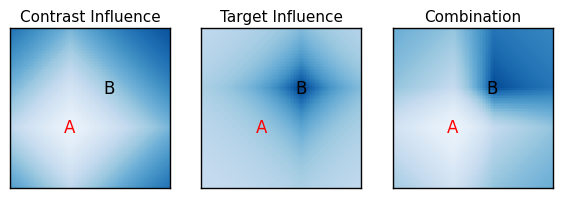
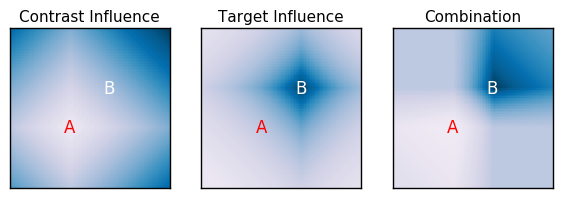
days work

diff --git a/Experiments/middle-bottom/modeling/plot.range.x.location.py b/Experiments/middle-bottom/modeling/plot.range.x.location.py
@@ -13,13 +13,12 @@ import utils
 con = sqlite3.connect('../data/experiment.db')
 info = pd.read_sql_query("SELECT * from participants", con)
 stats = pd.read_sql_query("SELECT * from betastats", con)
-generation = pd.read_sql_query("SELECT participant, stimulus from generation", con)
+observed = pd.read_sql_query("SELECT participant, stimulus from generation", con)
 alphas = pd.read_sql_query("SELECT * from alphas", con)
 stimuli = pd.read_sql_query("SELECT * from stimuli", con).as_matrix()
 con.close()
 
 # get observed data
-observed = pd.DataFrame(generation)
 observed['F1'] = stimuli[observed.stimulus,0]
 observed['F2'] = stimuli[observed.stimulus,1]
 observed = pd.merge(observed, stats[['participant', 'drange']],    on='participant')
@@ -35,8 +34,8 @@ params = dict(
 
 simulated = pd.DataFrame(dict(
 	participant = observed['participant'],
-	stimulus = None,
-	drange = None),
+	stimulus = -1,
+	drange = np.nan),
 	index = observed.index
 )
 
@@ -48,6 +47,7 @@ for i, row in stats.groupby('participant'):
 	rs = np.array(row[['xrange','yrange']])[0]
 	rs = 1.0 / (rs + 1.0/9.0)
 	params['wts'] = rs / float(np.sum(rs))
+	# params['wts'] = np.array([0.5, 0.5])
 
 	model = Packer([As], params)
 	nums = model.simulate_generation(stimuli, 1, nexemplars = 4)
@@ -61,19 +61,6 @@ for i, row in stats.groupby('participant'):
 simulated['F1'] = stimuli[simulated.stimulus,0]
 simulated['F2'] = stimuli[simulated.stimulus,1]
 
-def d2color(vec):
-	d = np.array(vec)
-	static = np.zeros(len(d))
-	return np.array([d, d, static]).T
-
-def plotbs(h, Bs, color):
-	pts = utils.jitterize(Bs, sd = 0.05)
-	for i, row in enumerate(pts):
-		h.plot(row[0], row[1], 'o', 
-			color = color[i,:], 
-			alpha = 0.4, 
-			markersize = 7,
-			markeredgecolor = 'none')
 
 # plot betas
 f, ax = plt.subplots(2,2,figsize = (5,5))
@@ -84,14 +71,17 @@ for colnum, c in enumerate(pd.unique(info.condition)):
 	obs = observed.loc[observed.participant.isin(pids)]
 	sim = simulated.loc[simulated.participant.isin(pids)]
 
-	dfs = [observed, simulated]
-	for j in range(2):
-		df = dfs[j].loc[dfs[j].participant.isin(pids)]
-		Bs = df[['F1','F2']].as_matrix()
-		colors = d2color(df.drange)
+	for j, data in enumerate([observed, simulated]):
+		df = data.loc[data.participant.isin(pids)]
 		h = ax[j][colnum]
-		plotbs(h, Bs, colors)
 
+		df.plot(x = 'F1', y = 'F2', kind = 'scatter', ax = h, 
+			c = 'drange', s = 235, alpha = 0.2, marker = 's',
+			edgecolors = 'gray', linewidth = 0.5, 
+			colorbar = False, cmap = 'PuOr')
+
+		h.set_xlabel('')
+		h.set_ylabel('')
 
 
 # plot alphas

diff --git a/Experiments/middle-bottom/modeling/positive-negative-spaces.py b/Experiments/middle-bottom/modeling/positive-negative-spaces.py
@@ -5,41 +5,40 @@ from itertools import product
 import sys
 sys.path.insert(0, "../../../Modules/") # generate-categories/Modules
 import utils
+from models import Packer
 
 vals = np.linspace(-1, 1, 100).tolist()
 space = np.fliplr(utils.cartesian([vals, vals]))
 
 A = np.array([[-0.25, -0.25]])
 B = np.array([[ 0.25,  0.25]])
+cats = [A,B]
 
-def getss(examples, space, direction, c = 2.0):
-    D = utils.pdist(space, examples)
-    S = np.exp(-1.0 * float(c) * D)
-    S *= direction
-    return np.sum(S, axis=1)
+# params for PACKER
+c, phi = 1.0, 3.0
 
-neg = getss(A, space, -1.0) * 1.0
-pos = getss(B, space, 1.0) * 0.5
-
+pos =     [c, 0.0, 1.0, phi]
+neg =     [c, 1.0, 0.0, phi]
+pos_neg = [c, 1.0, 1.0, phi]
 
 prob_spaces = {
-    'Target Influence': pos,
-    'Contrast Influence': neg,
-    'Combination': pos + neg
+    'Target Influence': Packer(cats,pos),
+    'Contrast Influence': Packer(cats,neg),
+    'Combination': Packer(cats,pos_neg)
 }
 
 f, ax = plt.subplots(1,3, figsize = (7, 2.5))
 counter = 0
 
 for k in ['Contrast Influence', 'Target Influence', 'Combination']:
-    v = prob_spaces[k] 
+    m = prob_spaces[k] 
     h = ax[counter]
 
-    ps = np.exp(v * 3.0)
-    ps = ps / float(sum(ps))
+    ps = m.get_generation_ps(space,1)
     print max(ps)
+
     g = utils.gradientroll(ps, 'roll')[:,:,0]
-    im = utils.plotgradient(h, g, A, B, clim = (0, 0.00025), cmap = 'Blues')
+    im = utils.plotgradient(h, g, A, B, cmap = 'PuBu', beta_col = 'w')
     h.set_title(k, fontsize = 11)
 
     counter += 1
@@ -50,4 +49,4 @@ import os, matplotlib
 os.environ["PATH"] += os.pathsep + '/Library/TeX/texbin/'
 opts = {'pgf.texsystem': 'pdflatex'}
 matplotlib.rcParams.update(opts)
-f.savefig('../../../Manuscripts/cogsci-2017/figs/example-prob-spaces.pgf', bbox_inches='tight')
+# f.savefig('../../../Manuscripts/cogsci-2017/figs/example-prob-spaces.pgf', bbox_inches='tight')

diff --git a/Modules/utils/plot.py b/Modules/utils/plot.py
@@ -21,7 +21,12 @@ def plotclasses(h, stimuli, alphas, betas):
 	h.set_aspect('equal', adjustable='box')
 
 
-def plotgradient(h, G, alphas, betas, clim = (), cmap = 'Blues'):
+def plotgradient(h, G, alphas, betas, 
+								clim = (), 
+								cmap = 'Blues',
+								alpha_col = 'red',
+								beta_col = 'black',
+								):
 	"""
 	Plot a gradient using matplotlib.
 	 - h is the handle to the axis
@@ -29,6 +34,7 @@ def plotgradient(h, G, alphas, betas, clim = (), cmap = 'Blues'):
 	 - alphas/betas are the [-1 +1] coordinates of category memebers
 	 - clim (optional) defines the limits of the colormap.
 	 - cmap (optional) deinfes the colormap
+	 - [alpha/beta]_col: color of alpha and beta markers
 	"""
 
 	# generate clims if not provided
@@ -48,20 +54,17 @@ def plotgradient(h, G, alphas, betas, clim = (), cmap = 'Blues'):
 	)
 
 	# show annotations
-	textsettings = dict(
-		verticalalignment='center', 
-		horizontalalignment='center',
-		fontsize = 12.0)
+	textsettings = dict(va = 'center', ha = 'center', fontsize = 12.0)
 
 	coords = gradientspace(alphas, G.shape[0])
 	for j in range(coords.shape[0]):
 		h.text(coords[j,0],coords[j,1], 'A',
-			color = 'red', **textsettings)
+			color = alpha_col, **textsettings)
 
 	coords = gradientspace(betas, G.shape[0])
 	for j in range(coords.shape[0]):
 		h.text(coords[j,0],coords[j,1], 'B',
-			color = 'k', **textsettings)
+			color = beta_col, **textsettings)
 
 	h.set_yticks([])
 	h.set_xticks([])
